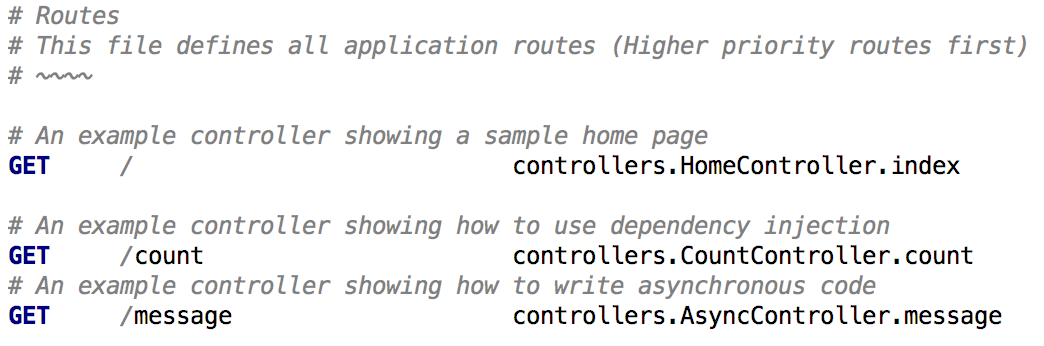
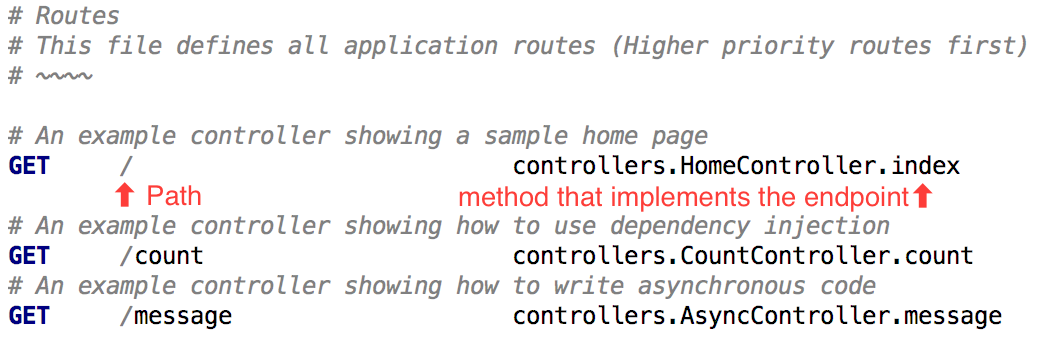
Lesson 2

Changed region(s): [[0.4291, 0.5202, 0.8889, 0.6069], [0.092, 0.5202, 0.2146, 0.6069]]

diff --git a/lesson-2.html b/lesson-2.html
@@ -63,7 +63,7 @@
 ~~~~
 
 ## Lesson Plan
-Get familiar with Play, Scala.js, and the skeleton project we setup last week.
+Get familiar with Play and Scala.js, then make a change to the project we setup last week.
 
 ~~~~
 ### Play Framework
@@ -85,11 +85,23 @@ Note:
 * And had everything you need to build an app out of the box. So you don't have to go and evaluate a bunch of JSON Libraries, or REST client to call external servies, instead it's all there out of the box.
 
 ~
+This means it's opinionated
+
+Note:
+* It's a fairly monolothic framework - although you can pick-and-choose part sof it with minimal hassle.
+* For our purposes it's great - easy to get up and running, and the live reload functionality we'll see later on is useful to have.
+~
 
 We will use it for the server sub-project:
 
 ![](project-structure.png)
 
+Note:
+* We have three sub-projects: 
+  - client which has the Scala which compiles down to JavaScript
+  - server which contains the serer-side Play code
+  - shared which contains shared code like classes we'll re-use across the frontend and backend
+* Here you can see the server project.
 ~
 The `conf` folder holds the `routes` file.
 
@@ -98,23 +110,58 @@ The `conf` folder holds the `routes` file.
 <img src="routes-content.png">
 
 Note:
+* You'll be adding an endpoint later in the lesson, so listen up!
 * This defines all your endpoints
-* This is kind of the entry-point to the application
-* You can see which method of which Controller is called for an endpoint.
+* You can think of this as the entry-point to the application
+* So you can see the index page (with /) is implemented by the `index` method on HomeController 
 
 ~
 
 Our Scala code lives in the `app` folder.
 
-![](app-sections.png)
+![](HomeController.png)
+
+Note:
+* Let's drill down on that index page.
+* All our code lives in the app folder in the server project.
+* Inside there, see we a Controllers page, and inside there the HomeController which implements the index page.
+~
+Inside the HomeController we find the index method
+
+![](HomeController-body.png)
+
+Note:
+* So we can see the implementation is an Action which return Ok (HTTP 200)
+* The body of the page created from a template, and we pass a parameter to this template
+~
+The Controller is using the index view
+
+![](index-view-location.png)
+![](index-view-body.png)<!-- .element height="50%" width="50%" -->
+
+Note:
+* So here's the template. It has a slgihtly weird syntax. You can read up on that during the exercise later on.
+* This template gets compiled down to a Scala function which is then called from the HomeController.
+* You can see it takes a message parameter, which corresponds to the value we passed in from the controller.
+* This template actually calls through to the `main` template.
+~
+The underlying template
+
+![](main-view-body.png)
+
+Note:
+* So this is the HTML that gets generated when you open the index page
+* And 'content' contains the string we passed through from the Controller
+* We also have some boilerplate here to include our Scala.js code. But we'll ignore that for now. 
 ~
 Play has a really quick feedback loop. "Just-hit-refresh"  
 
 Note:
+* Now I'll demo some of Play's features.
 * This is what got me interested in it back in 2010. I was just really impressed by this. It kind of felt like working with RoR or Django.
 * *Demo* add a hello world endpoint.
 * Change hello world to hello fullstack
-*** and this allows the feedback loop to be on par with ruby on rails or django
+** and this allows the feedback loop to be on par with ruby on rails or django
 * The cost of this is that you're locked into SBT or Gradle. 
 ** Play needs to hook into your build tool to do this. 
 ** So using Play with Play would work, but you lose live reload and there's a few other ways in which it's just... less documented
@@ -136,8 +183,7 @@ Note:
 *** Sidenote - Compilation errors in the browser are nice, but not something you want in prod - so these only happen during development
 ~
 ### It's scalable.
-* Powered by Netty 
-* Upcoming 2.6.x powered by Akka HTTP. 
+* Powered by Akka HTTP which uses Java NIO  
 * If your Actions are async and return Futures, then you're not using a thread per request.
 
 Note:
@@ -151,37 +197,37 @@ def index = Action.async { implicit req =>
 }
 ```
 ~
-It's easy to add CoffeeScript and Less/Sass to your frontend
-
-Note:
-* So although it's a traditional MVC style framework, it's easy enough to build a rich frontend experience
-* You don't need to go and learn another build tool, you can just manage these frontend dependencies from SBT
-~
 Play is aimed at tradional web apps with server-side templating.
 
 Note:
-* And for better or worse, I think the web is headed towards richer more complicated frontends - and Play doesn't really cover that
+* And for better or worse, I think the web is headed towards richer more complicated frontends - and Play isn't really build to target that
 ~
-But, good for building RESTful APIs.
+But, Play's still great for building RESTful APIs.
 
 Note:
-* I've used it on a number of projects just to provide an API, and ignored all the templating stuff.
+* Some people will say it's overkill, but really you would still use everything except the templating.
+* I've used it on a number of projects just to provide an API
 * It's still been very valuable just for this fast reloading and ease of deployment
 ~
 Deployment is really simple
 
 Note:
 * Heroku has built in support for it
-* Demo `sbt docker:publishLocal`
-* oops, no crypto secret. Play can handle signing session cookies CSRF tokens for you, but it needs an encryption secret, and it won't let you run it in production mode otherwise.
-** To fix this, we just add `play.crypto.secret` to application.conf
-* ok, run i can run it with `docker run -p 1337:9000 play-scala-seed:1.0-SNAPSHOT`
-* then browse to it and show index and hello endpoints
-* there's other ways of deploying which you can read up on.
-** And this is another strength. Play is mature and has a big community. Really good documentation and lots of stuff on stackoverflow
+* I used to demo how easy it is to create a docker image, but it can take a minute so I'm going to skip over that unless anyone's interested. `sbt docker:publishLocal`
+* there's a bunch of other ways of deploying which you can read up on.
+~
+Big community and good documentation
+
+Note:
+* And this leads into another strength.
+* Play is mature and has a big community. Really good documentation and lots of stuff on stackoverflow
+* And that's kind of essential when you're getting started.
 
 ~~~~
 ## Scala.js
+
+Note:
+OK, enough with Play. Let's talk about Scala.js
 ~
 So what is Scala.js?
 ~
@@ -189,7 +235,7 @@ A Scala to JavaScript compiler
 
 Note:
 
-Started by Sebastien Doeraene at EPFL around 3.5 years ago 
+Started by Sebastien Doeraene at EPFL a little over years ago now
 
 Hooks into the Scala compiler, and instead of emitting JVM bytecode, it emits JavaScript
 
@@ -204,27 +250,16 @@ Note:
 * People have used it with NodeJS on the server.
 * I've used that a little myself: Electron with Scala.js, which leverages NodeJS
 ~
-To use it, add a plugin to your SBT build, and enable it for one of your projects.
-
-Note:
-* So this assumes you're using SBT. Gradle and Maven aren't supported.
-* You can projects that are cross compile projects for JVM and JS, or just pure JS projects.
-* Not everything works (a lot of the Java stdlib isn't available, which Scala stdlib uses).
-** But there's enough for it to be usable for a lot of usecases.
-~
-Or clone one of the [skeleton projects](https://www.scala-js.org/libraries/skeletons.html) to get started: 
-- [A pure Scala.js project](https://github.com/lihaoyi/workbench-example-app)
-- [Play server and Scala.js client](https://github.com/vmunier/play-with-scalajs-example)
-- [Scala.js targetting NodeJS](https://github.com/rockymadden/scala-node-example)
-
-~
 Why use Scala.js?  
 
 Note:
-* We're quite used to web frontends being a seperate codebase with a largely seperate dev team.
-* But there's a few advantages to having one codebase with shared code across the frontend and backend, which I find quite compelling
+* For us, it's this ability to use one language across both the frontend and backend
+* For me, intially it was just "I like Scala, so Scala.js sounds cool"
+* The productivity argument: not only do we share the language, but we share code - domain model and logic. We'll see this later on in the course.
 ~
 Share domain model and business logic across client and server.  
+
+e.g. Validation logic  
 
 You can refactor some code on the server and the template will be updated!  <!-- .element: class="fragment" -->
 
@@ -248,7 +283,7 @@ In TypeScript, you can optionally add types.
 In Scala.js, you can optionally go Dynamic.<!-- .element: class="fragment" -->
 
 Note:
-* Fundermentally, in typescript you can optional add types and gradually make parts of your codebase more typesafe.
+* Fundamentally, in typescript you can optional add types and gradually make parts of your codebase more typesafe.
 * But with Scala.js, by default everything is typed and you can optionally go dynamic
 ** allowing you to call potentially non-existing fields or methods on an object.
 ** Which can be very useful for using an existing JavaScript library, but is something you really want to avoid.
@@ -269,30 +304,19 @@ Note:
   * See 'Principles of Elegance' talk from ScalaDays NY 2016
 
 ~ 
-It's more mature/production ready than you may think.  
+It's mature with a rich ecosystem
 
 Note:
-* No longer experimental (since Feb 2015). 
-* Really, I think there's a chicken and egg problem.
-** People are hesitant to adopt Scala.js because there's not much adoption - but that's self fulfilling. 
+* No longer experimental (since Feb 2015).
 ~
-Already has a rich ecosystem.
-
-~
-Lots of existing pure scala libraries already cross-compile:
+Lots of existing scala libraries work with Scala.js:
 - Scalaz
 - Cats
 - Shapeless
 - Monix
 - Circe
-- Rapture
 - Most of the standard library, e.g. Futures
 
-<!--
-  TODO
-  Dive into pure-scala libraries
-    Futures map very well to JavaScript promises and allow you to move away from callback hell.
-  -->
 ~
 Typesafe fascades for existing libraries (varying quality):
 - DOM
@@ -302,26 +326,43 @@ Typesafe fascades for existing libraries (varying quality):
 - Vue.js
 - D3
 
-<!--
-  TODO
-  TALK ABOUT REACT 1.0
-  Dive into the Fascades
-  DOM is very good
--->
+Note:
+* DOM API comes bundled with Scala.js
+* jQuery fascade is mature and maintained by Scala.js team
+* React actually has multiple fascades. I use one of them on personal projects.
 ~
 Built for Scala.js:
 - ScalaTags
 - ScalaCss
 - Diode
-- uPickle and BooPickle
 - autowire
-- workbench
+- Udash
+- scalajs-bundler
 
+
+Note:
+* The community is active and all sorts of Scala.js specific libraries have been written.
+* We'll be using autowire later in the course
 ~
 Scala.js looks similar to JavaScript/ES6, but with types.
 
 [Demo](https://embed.scalafiddle.io/embed?sfid=8D8UXdW/6)
+~~~~
+## Exercise
 
+Fix the tests in Lesson2.scala
+
+```bash
+cd scala-course #go to your checked out project
+git pull #fetch latest code
+./sbt test #run the tests
+```
+
+Note:
+* Make sure you run `git pull`, but you can run the tests from IntelliJ
+* You'll need to implement a new endpoint: /time
+* When the tests fail you'll get hints, or just ask me or Adam
+* And there's a link at the bottom of the slides if you want to review the earlier section where we went through the project structure
           </script>         
         </section>
       </div>

diff --git a/plugin/notes/notes.html b/plugin/notes/notes.html
@@ -121,8 +121,8 @@
 
 				.speaker-controls-notes .value {
 					margin-top: 5px;
-					line-height: 1.4;
-					font-size: 1.2em;
+					line-height: 1.2;
+					font-size: 1em;
 				}
 
 			.clear {
